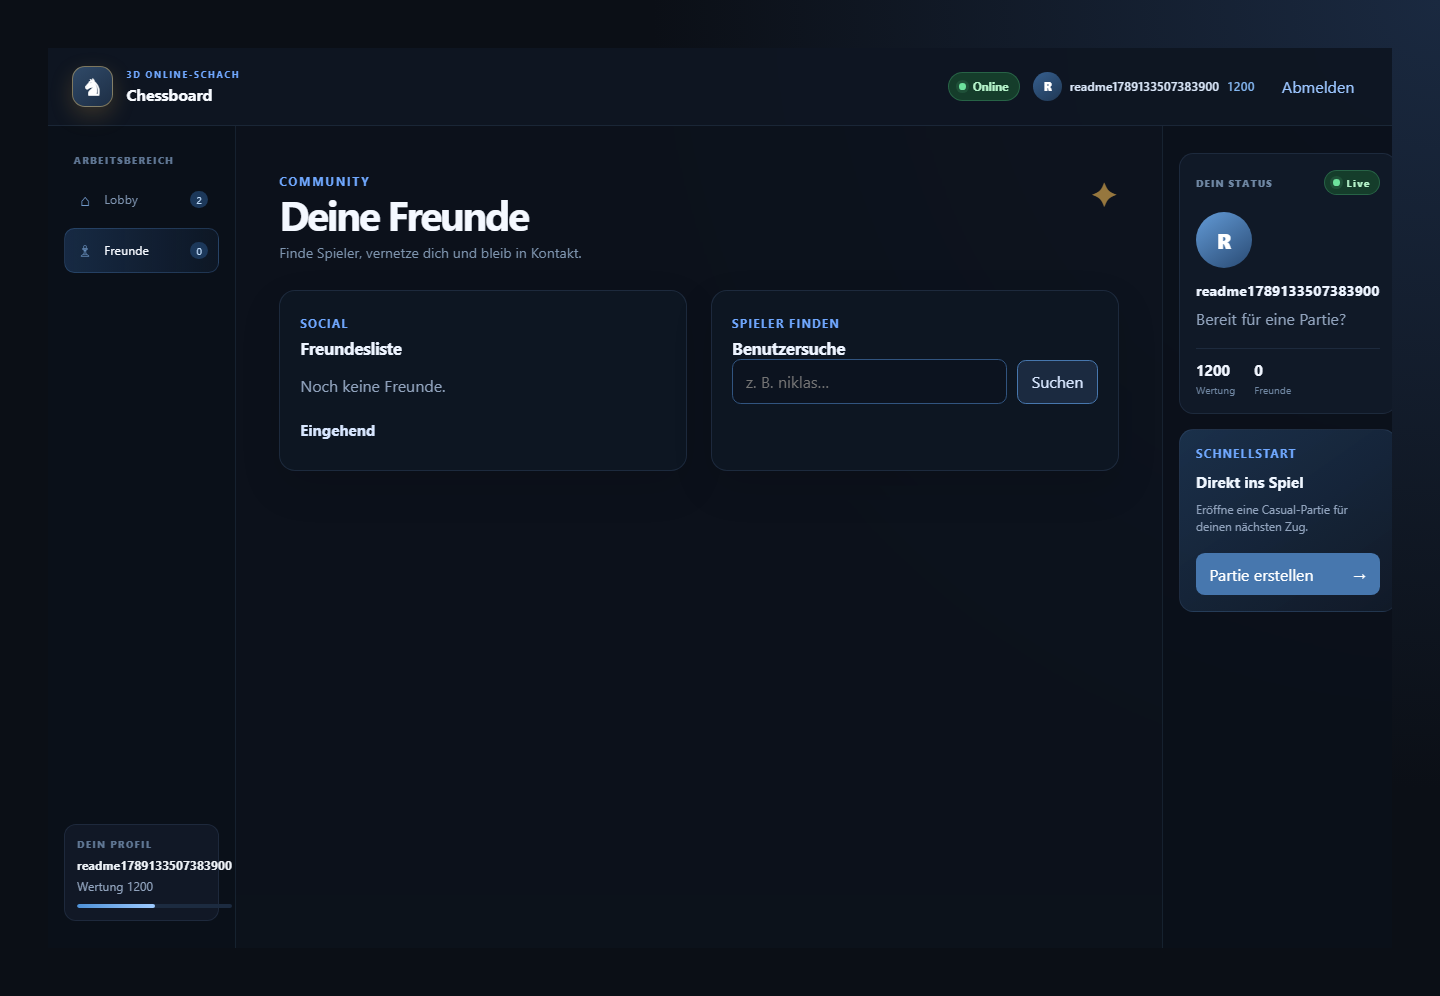
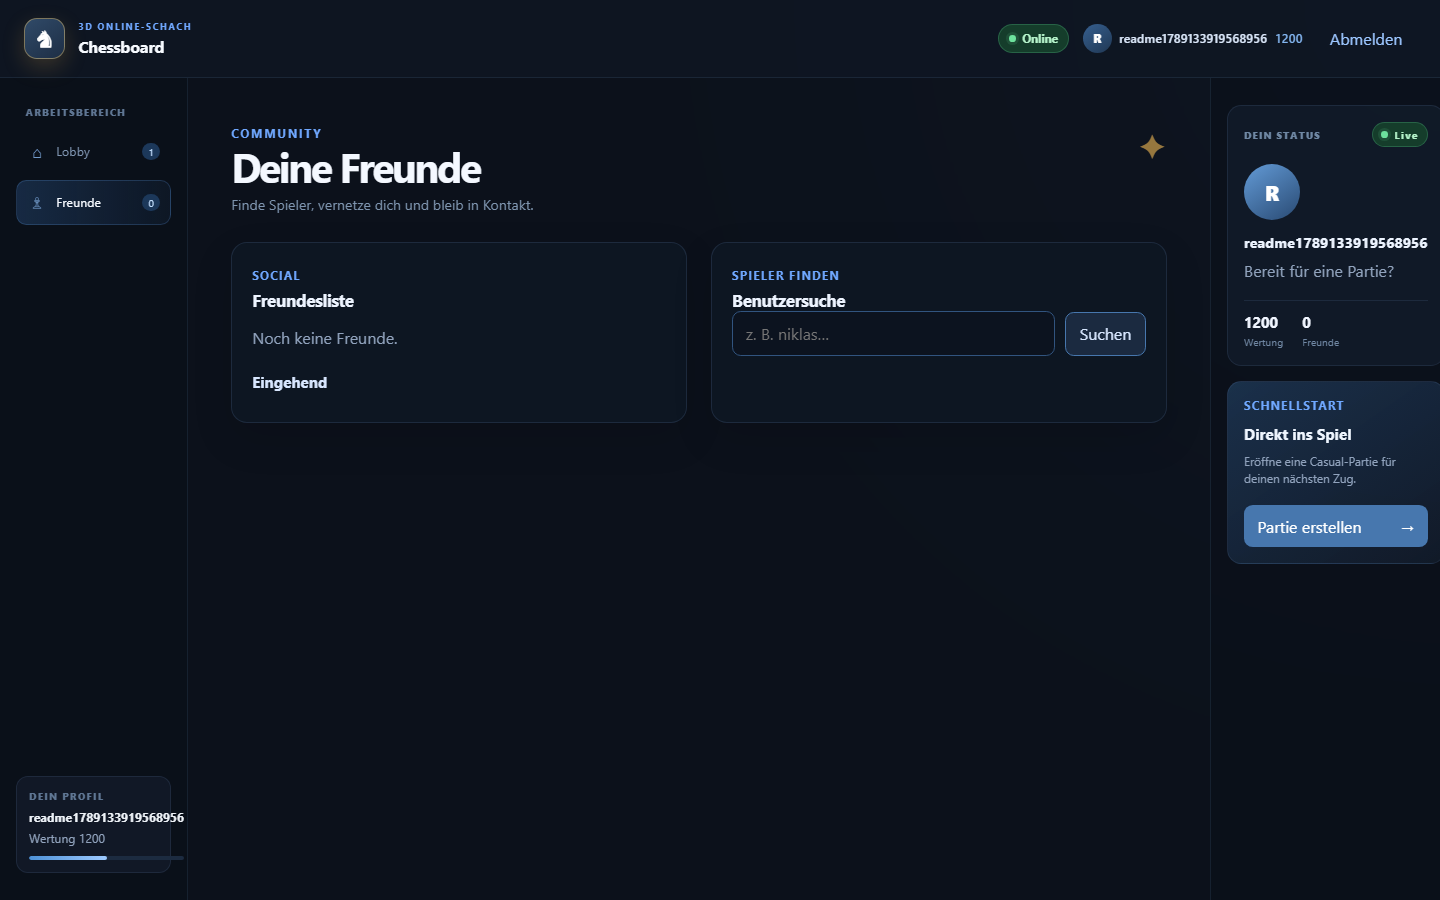
fix: use full viewport for dashboard layout

diff --git a/e2e/auth.spec.ts b/e2e/auth.spec.ts
@@ -122,4 +122,32 @@ test.describe('Authentifizierung', () => {
       page.getByRole('heading', { name: 'Bereit für den nächsten Zug?' }),
     ).not.toBeVisible();
   });
+
+  test('spannt das Dashboard ohne äußeren Rand über den gesamten Viewport', async ({ page }) => {
+    const credentials = createCredentials();
+
+    await openLogin(page);
+    await switchToRegistration(page);
+    await page.getByLabel('Benutzername').fill(credentials.username);
+    await page.getByLabel('Passwort').fill(credentials.password);
+    await page.getByRole('button', { name: 'Registrieren', exact: true }).click();
+    await expectAuthenticated(page, credentials.username);
+
+    const dashboardBounds = await page.locator('.dashboard-shell').evaluate((element) => {
+      const bounds = element.getBoundingClientRect();
+      return {
+        left: bounds.left,
+        top: bounds.top,
+        width: bounds.width,
+        height: bounds.height,
+        viewportWidth: window.innerWidth,
+        viewportHeight: window.innerHeight,
+      };
+    });
+
+    expect(dashboardBounds.left).toBe(0);
+    expect(dashboardBounds.top).toBe(0);
+    expect(dashboardBounds.width).toBe(dashboardBounds.viewportWidth);
+    expect(dashboardBounds.height).toBeGreaterThanOrEqual(dashboardBounds.viewportHeight);
+  });
 });

diff --git a/apps/client/src/styles.css b/apps/client/src/styles.css
@@ -26,9 +26,9 @@ input {
 
 .app-shell {
   display: grid;
-  gap: 1.5rem;
+  gap: 0;
   min-height: 100vh;
-  padding: clamp(1rem, 4vw, 3rem);
+  padding: 0;
   background: radial-gradient(circle at top right, #1a2940 0, #0b0f16 45%);
 }
 
